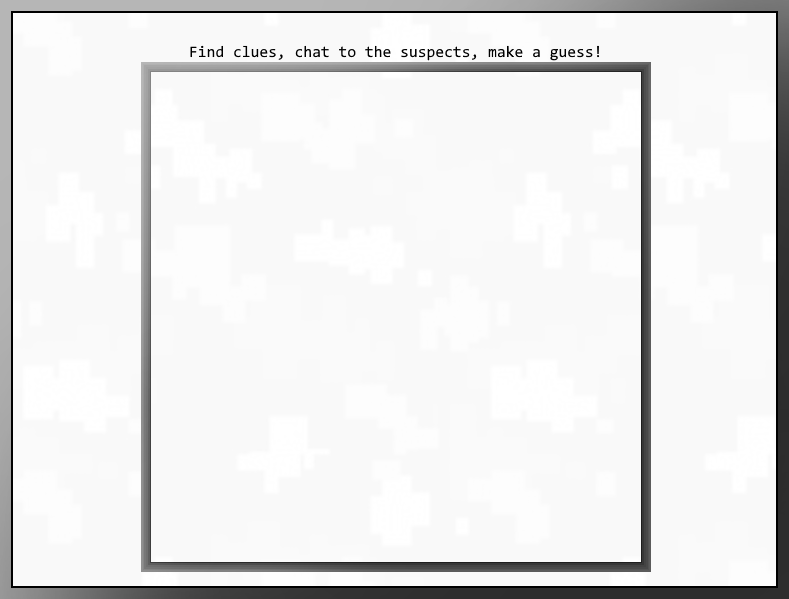
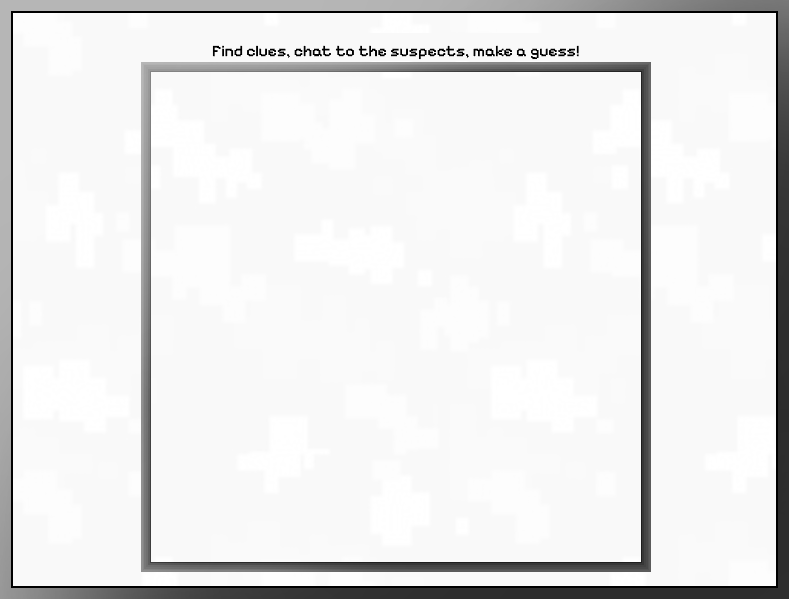
Change game subtitle to have pixel font.

Changed region(s): [[0.2433, 0.0601, 0.7605, 0.1202]]

diff --git a/src/main/java/nz/ac/auckland/se206/App.java b/src/main/java/nz/ac/auckland/se206/App.java
@@ -5,7 +5,6 @@ import javafx.application.Application;
 import javafx.fxml.FXMLLoader;
 import javafx.scene.Parent;
 import javafx.scene.Scene;
-import javafx.scene.text.Font;
 import javafx.stage.Stage;
 import javafx.stage.WindowEvent;
 import nz.ac.auckland.se206.SceneManager.AppUi;
@@ -124,8 +123,8 @@ public class App extends Application {
   @Override
   public void start(final Stage stage) {
     try {
-      System.out.println(Font.loadFont(App.class.getResource("/fonts/Caveat-Bold.ttf").toExternalForm(), 13).getName());
-      System.out.println(Font.loadFont(App.class.getResource("/fonts/PixelifySans-VariableFont_wght.ttf").toExternalForm(), 12));
+      // System.out.println(Font.loadFont(App.class.getResource("/fonts/Caveat-Bold.ttf").toExternalForm(), 13).getName());
+      // System.out.println(Font.loadFont(App.class.getResource("/fonts/PixelifySans-VariableFont_wght.ttf").toExternalForm(), 12));
       // Adds all ui to scene manager
       preAddUi();
       // Initialise all conditions interacted to be false
